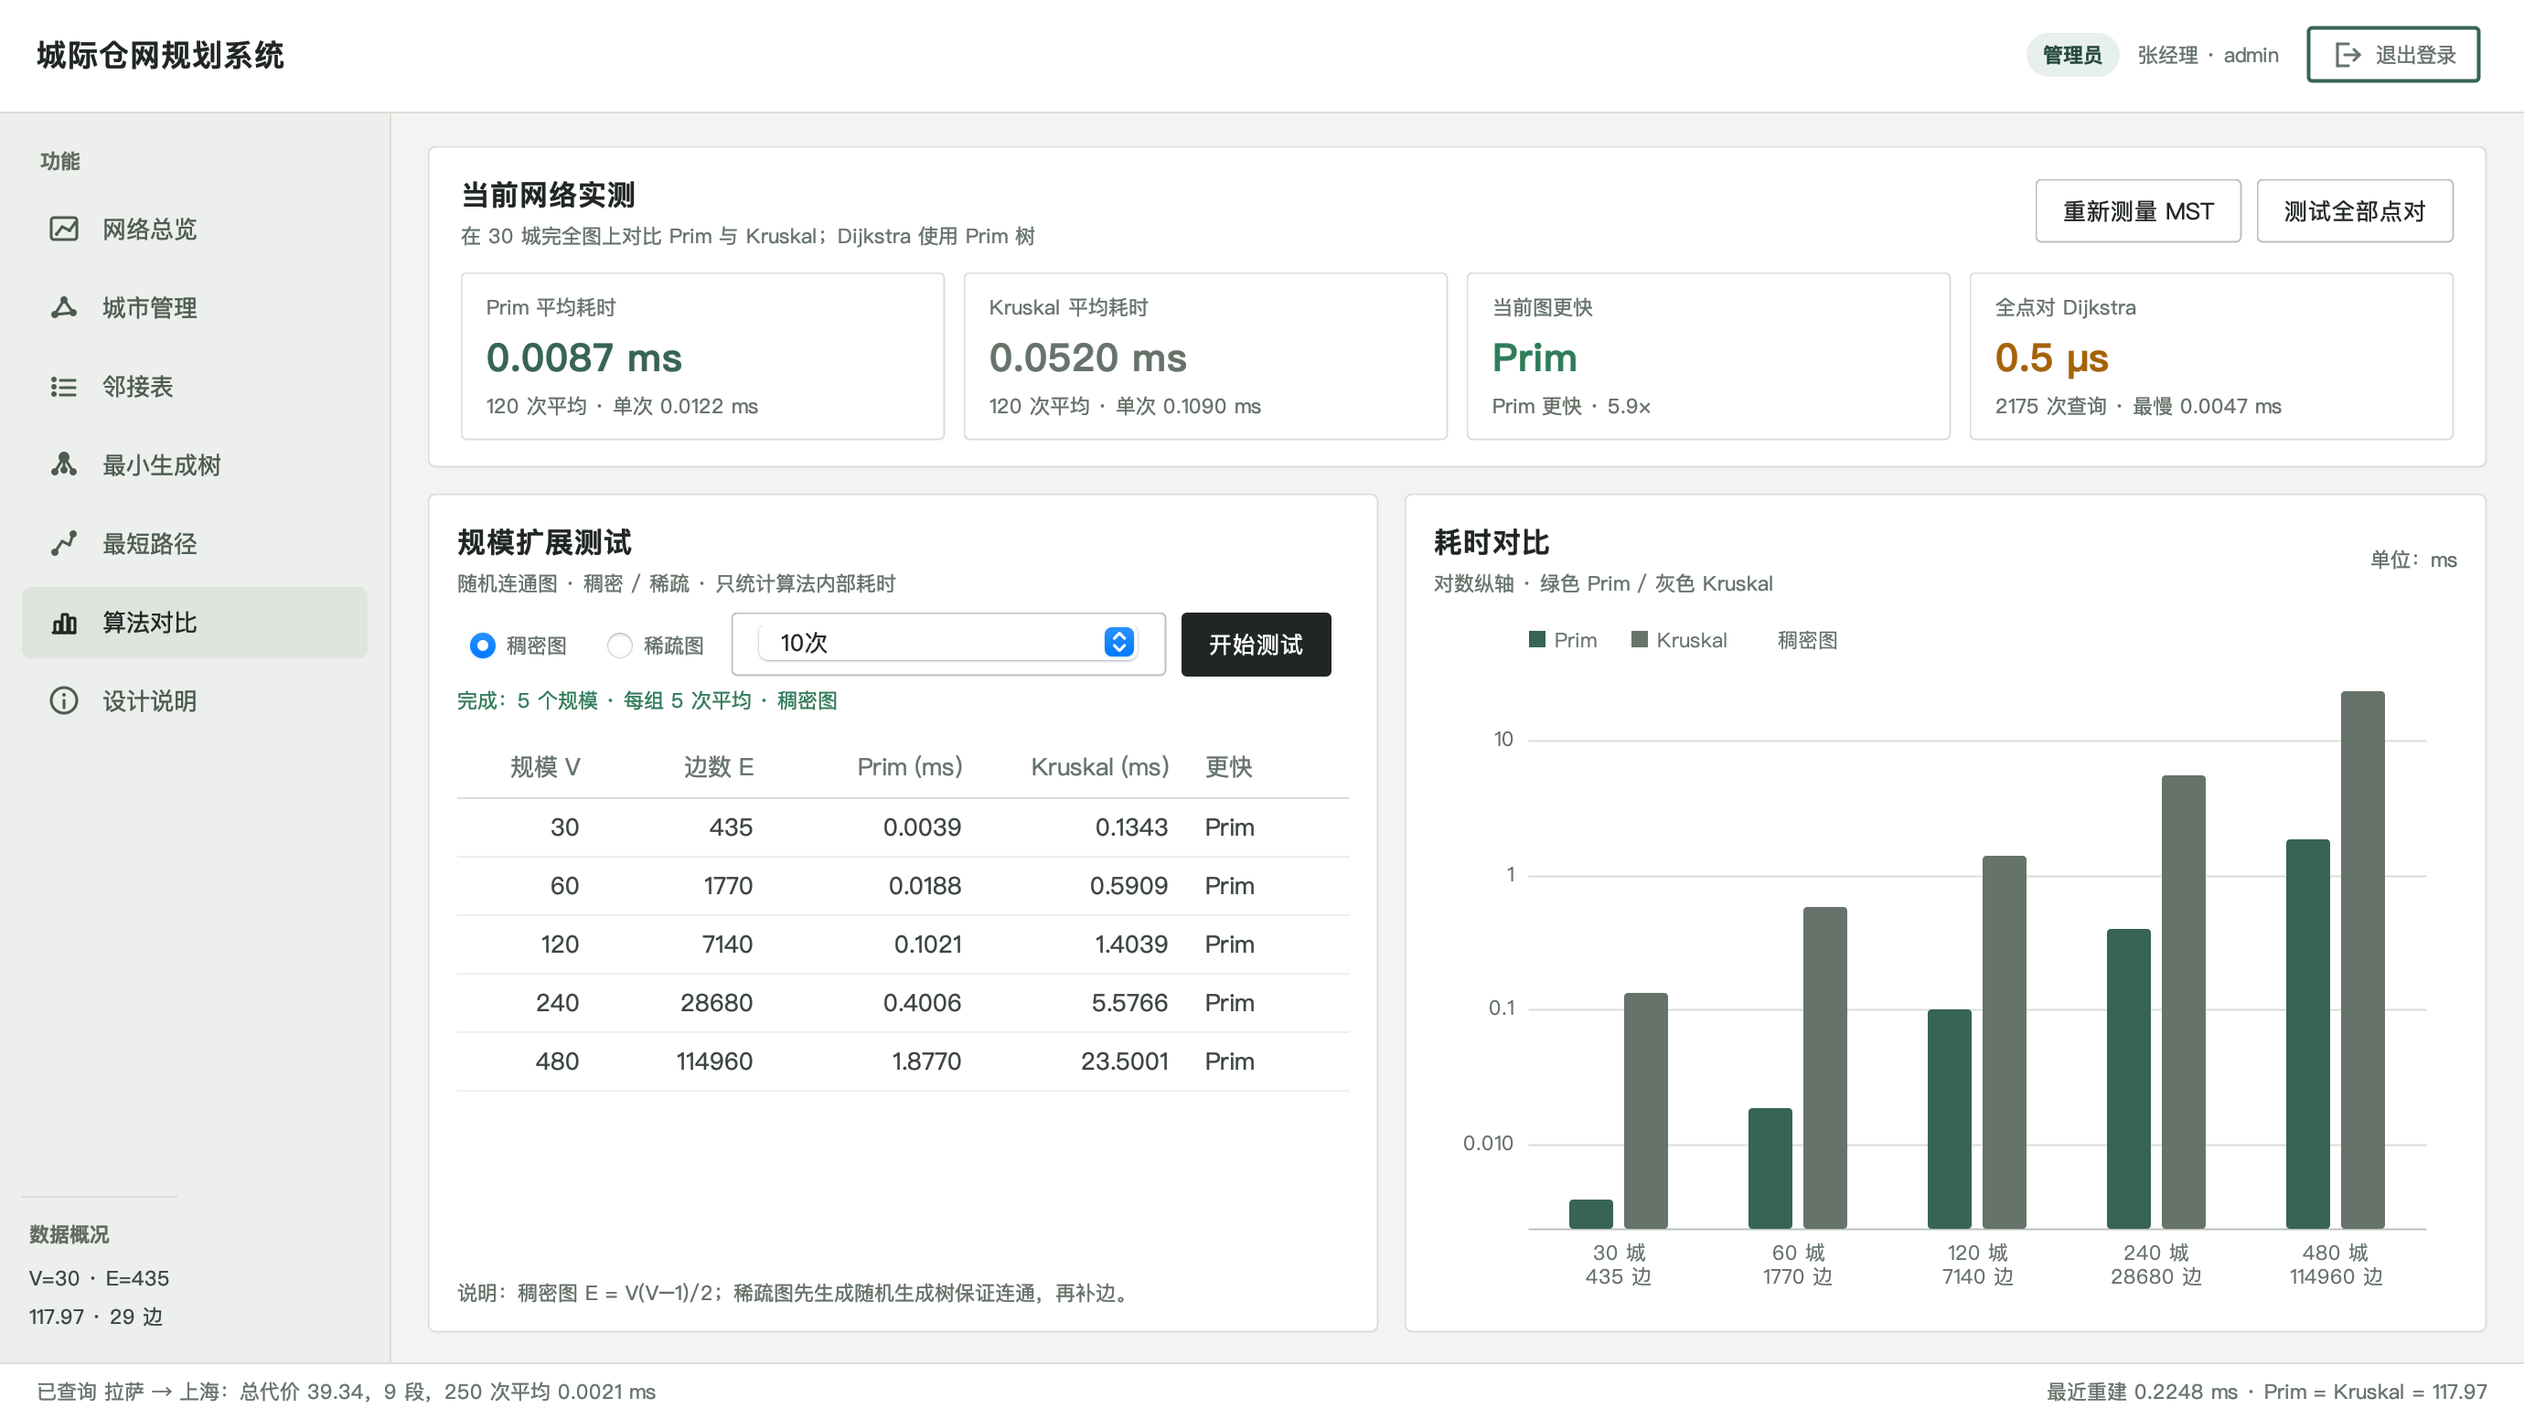
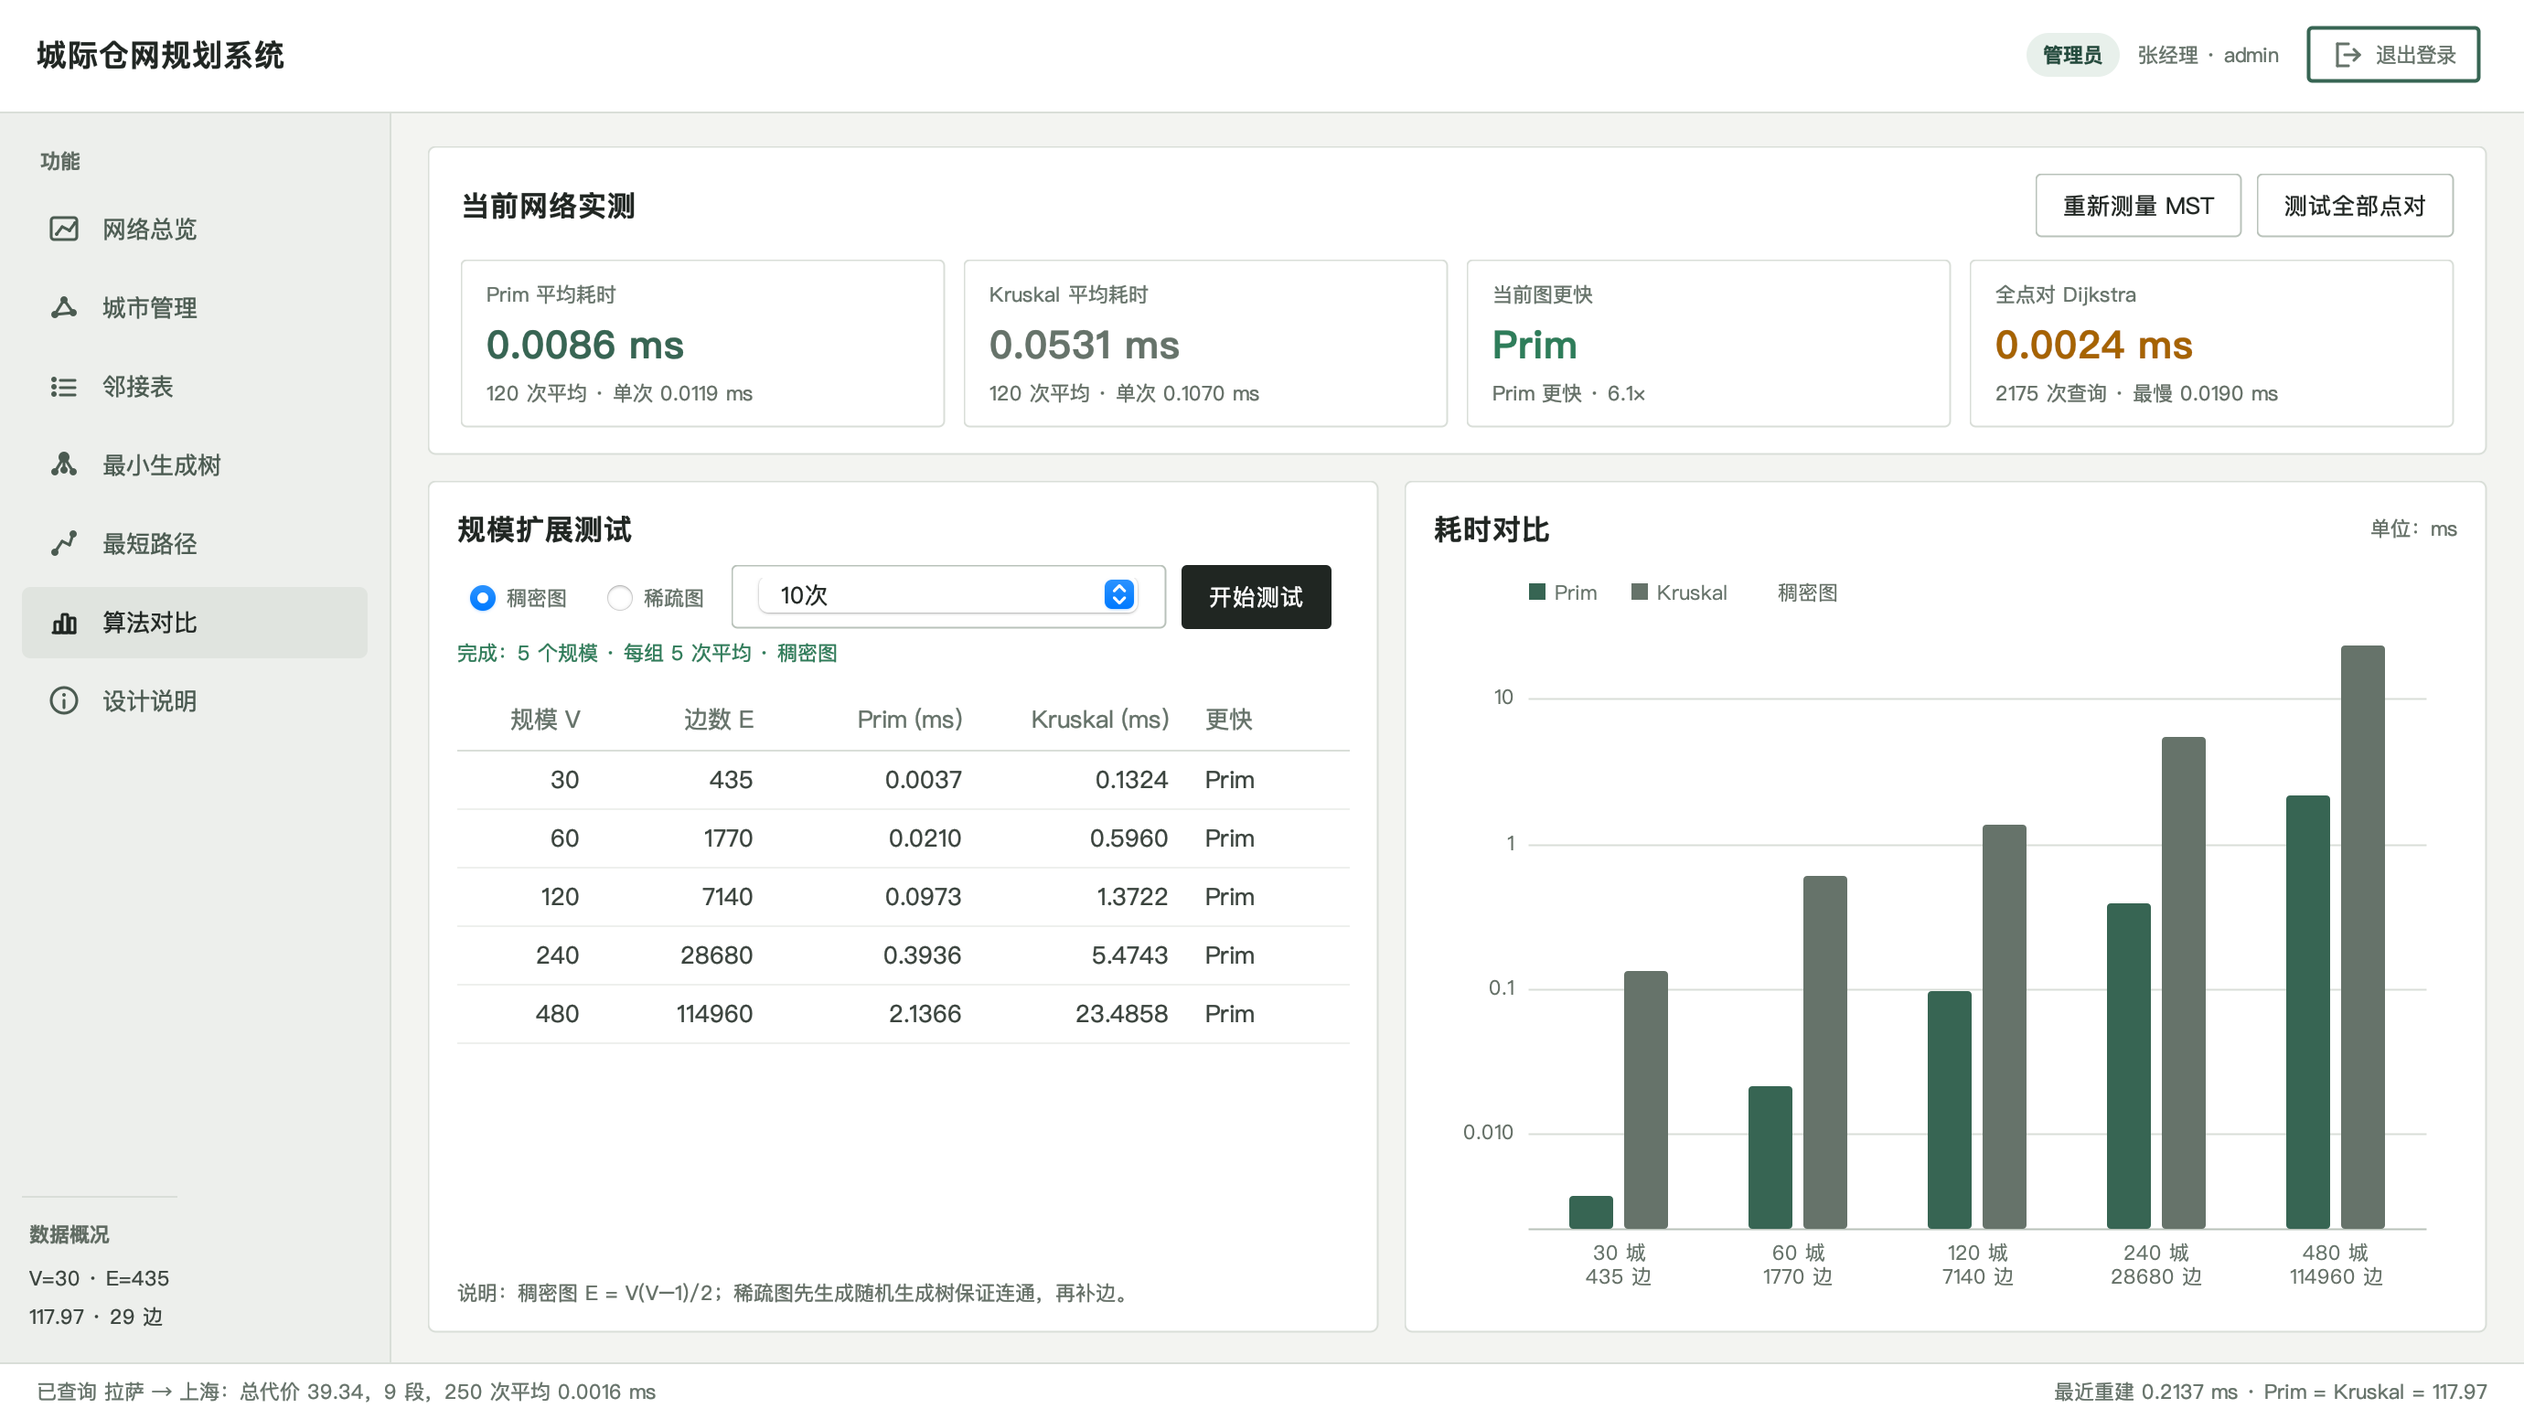
style: remove explanatory heading subtitles

diff --git a/src/logistics/ui/MstPanel.java b/src/logistics/ui/MstPanel.java
@@ -2,7 +2,6 @@ package logistics.ui;
 
 import java.awt.BorderLayout;
 import java.awt.Color;
-import java.awt.Component;
 import java.awt.Dimension;
 import java.awt.Font;
 import java.awt.GridLayout;
@@ -55,10 +54,8 @@ public final class MstPanel extends JPanel {
         add(tiles, BorderLayout.NORTH);
 
         JPanel tables = Ui.transparent(new GridLayout(1, 2, 14, 0));
-        tables.add(buildTableCard("Prim", "从起点出发，每次选距当前树最近的顶点",
-                primTime, primModel, Theme.PRIMARY));
-        tables.add(buildTableCard("Kruskal", "边按权值升序，并查集判环，选够 V-1 条为止",
-                kruskalTime, kruskalModel, Theme.TEXT_SOFT));
+        tables.add(buildTableCard("Prim", primTime, primModel, Theme.PRIMARY));
+        tables.add(buildTableCard("Kruskal", kruskalTime, kruskalModel, Theme.TEXT_SOFT));
         add(tables, BorderLayout.CENTER);
 
         Ui.RoundedPanel note = new Ui.RoundedPanel(new BorderLayout(), new Color(0xF7, 0xF8, 0xF6),
@@ -72,15 +69,13 @@ public final class MstPanel extends JPanel {
         add(note, BorderLayout.SOUTH);
     }
 
-    private JPanel buildTableCard(String algorithm, String description, JLabel timeLabel,
+    private JPanel buildTableCard(String algorithm, JLabel timeLabel,
                                   EdgeTableModel model, Color accent) {
         Ui.RoundedPanel card = Ui.card();
         card.setLayout(new BorderLayout());
         card.setBorder(new EmptyBorder(15, 16, 15, 16));
 
         JPanel header = Ui.transparent(new BorderLayout());
-        JPanel title = Ui.transparent();
-        title.setLayout(new BoxLayout(title, BoxLayout.Y_AXIS));
         JPanel nameRow = Ui.transparent();
         nameRow.setLayout(new BoxLayout(nameRow, BoxLayout.X_AXIS));
         JLabel name = Ui.label(algorithm, 15.5f, Theme.TEXT, Font.BOLD);
@@ -88,13 +83,7 @@ public final class MstPanel extends JPanel {
         nameRow.add(Ui.gap(8, 0));
         nameRow.add(new Ui.BadgeLabel(algorithm.equals("Prim") ? "加顶点" : "加边",
                 accent, new Color(accent.getRed(), accent.getGreen(), accent.getBlue(), 22)));
-        nameRow.setAlignmentX(Component.LEFT_ALIGNMENT);
-        title.add(nameRow);
-        title.add(Ui.gap(0, 3));
-        JLabel desc = Ui.label(description, 10.3f, Theme.MUTED, Font.PLAIN);
-        desc.setAlignmentX(Component.LEFT_ALIGNMENT);
-        title.add(desc);
-        header.add(title, BorderLayout.WEST);
+        header.add(nameRow, BorderLayout.WEST);
         timeLabel.setHorizontalAlignment(JLabel.RIGHT);
         timeLabel.setFont(Theme.mono(11f));
         header.add(timeLabel, BorderLayout.EAST);

diff --git a/src/logistics/ui/CityPanel.java b/src/logistics/ui/CityPanel.java
@@ -62,17 +62,8 @@ public final class CityPanel extends JPanel {
         card.setBorder(new EmptyBorder(13, 18, 13, 18));
         card.setLayout(new BorderLayout());
 
-        JPanel titles = Ui.transparent();
-        titles.setLayout(new BoxLayout(titles, BoxLayout.Y_AXIS));
         JLabel title = Ui.label("城市管理", 17f, Theme.TEXT, Font.BOLD);
-        title.setAlignmentX(Component.LEFT_ALIGNMENT);
-        titles.add(title);
-        titles.add(Ui.gap(0, 3));
-        JLabel sub = Ui.label("修改后重建图与 MST，并保存到 data/cities.txt",
-                10.8f, Theme.MUTED, Font.PLAIN);
-        sub.setAlignmentX(Component.LEFT_ALIGNMENT);
-        titles.add(sub);
-        card.add(titles, BorderLayout.WEST);
+        card.add(title, BorderLayout.WEST);
 
         Ui.PillButton addButton = new Ui.PillButton("＋ 新增城市", Ui.ButtonStyle.PRIMARY);
         editButton = new Ui.PillButton("编辑选中", Ui.ButtonStyle.SECONDARY);
@@ -104,7 +95,7 @@ public final class CityPanel extends JPanel {
         tableCard.setLayout(new BorderLayout());
 
         JPanel header = Ui.transparent(new BorderLayout());
-        header.add(Ui.cardTitle("链表结点", "双击一行可以直接编辑"), BorderLayout.WEST);
+        header.add(Ui.cardTitle("链表结点"), BorderLayout.WEST);
         header.add(countBadge, BorderLayout.EAST);
         tableCard.add(header, BorderLayout.NORTH);
 
@@ -154,7 +145,7 @@ public final class CityPanel extends JPanel {
 
         JPanel top = Ui.transparent();
         top.setLayout(new BoxLayout(top, BoxLayout.Y_AXIS));
-        JPanel titles = Ui.cardTitle("按距离排序", "链表就地插入排序 · 稳定 · O(n²)");
+        JPanel titles = Ui.cardTitle("按距离排序");
         titles.setAlignmentX(Component.LEFT_ALIGNMENT);
         top.add(titles);
         top.add(Ui.gap(0, 12));
@@ -446,11 +437,6 @@ public final class CityPanel extends JPanel {
             title.setFont(Theme.display(Font.BOLD, 21f));
             title.setAlignmentX(Component.LEFT_ALIGNMENT);
             top.add(title);
-            top.add(Ui.gap(0, 5));
-            JLabel sub = Ui.label("保存后立即重建完全图、MST 与最短路径缓存", 10.5f,
-                    Theme.MUTED, Font.PLAIN);
-            sub.setAlignmentX(Component.LEFT_ALIGNMENT);
-            top.add(sub);
             root.add(top, BorderLayout.NORTH);
 
             JPanel form = new JPanel();

diff --git a/src/logistics/ui/BenchmarkPanel.java b/src/logistics/ui/BenchmarkPanel.java
@@ -74,8 +74,7 @@ public final class BenchmarkPanel extends JPanel {
         card.setBorder(new EmptyBorder(15, 18, 15, 18));
 
         JPanel header = Ui.transparent(new BorderLayout());
-        header.add(Ui.cardTitle("当前网络实测",
-                "在 30 城完全图上对比 Prim 与 Kruskal；Dijkstra 使用 Prim 树"), BorderLayout.WEST);
+        header.add(Ui.cardTitle("当前网络实测"), BorderLayout.WEST);
 
         JPanel actions = Ui.transparent();
         actions.setLayout(new BoxLayout(actions, BoxLayout.X_AXIS));
@@ -114,8 +113,7 @@ public final class BenchmarkPanel extends JPanel {
 
         JPanel header = Ui.transparent(new BorderLayout(0, 8));
         JPanel titleRow = Ui.transparent(new BorderLayout());
-        titleRow.add(Ui.cardTitle("规模扩展测试", "随机连通图 · 稠密 / 稀疏 · 只统计算法内部耗时"),
-                BorderLayout.WEST);
+        titleRow.add(Ui.cardTitle("规模扩展测试"), BorderLayout.WEST);
         header.add(titleRow, BorderLayout.NORTH);
 
         JPanel middle = Ui.transparent();
@@ -176,7 +174,7 @@ public final class BenchmarkPanel extends JPanel {
         card.setBorder(new EmptyBorder(15, 16, 15, 16));
 
         JPanel header = Ui.transparent(new BorderLayout());
-        header.add(Ui.cardTitle("耗时对比", "对数纵轴 · 绿色 Prim / 灰色 Kruskal"), BorderLayout.WEST);
+        header.add(Ui.cardTitle("耗时对比"), BorderLayout.WEST);
         JLabel hint = Ui.label("单位：ms", 9.8f, Theme.FAINT, Font.PLAIN);
         header.add(hint, BorderLayout.EAST);
         card.add(header, BorderLayout.NORTH);

diff --git a/src/logistics/ui/OverviewPanel.java b/src/logistics/ui/OverviewPanel.java
@@ -51,7 +51,7 @@ public final class OverviewPanel extends JPanel {
         JPanel mapCard = Ui.card();
         mapCard.setBorder(new EmptyBorder(16, 16, 14, 16));
         JPanel header = Ui.transparent(new BorderLayout());
-        header.add(Ui.cardTitle("城市网络拓扑", "城市按经纬度投影，实线表示最小生成树"), BorderLayout.WEST);
+        header.add(Ui.cardTitle("城市网络拓扑"), BorderLayout.WEST);
 
         JPanel controls = Ui.transparent();
         controls.setLayout(new BoxLayout(controls, BoxLayout.X_AXIS));
@@ -141,7 +141,7 @@ public final class OverviewPanel extends JPanel {
         card.setMaximumSize(new Dimension(Integer.MAX_VALUE, 300));
 
         JPanel title = Ui.transparent(new BorderLayout());
-        title.add(Ui.cardTitle("网络概况", "随城市数据自动更新"), BorderLayout.WEST);
+        title.add(Ui.cardTitle("网络概况"), BorderLayout.WEST);
         title.setAlignmentX(Component.LEFT_ALIGNMENT);
         card.add(title);
         card.add(Ui.gap(0, 13));
@@ -167,7 +167,7 @@ public final class OverviewPanel extends JPanel {
         card.setAlignmentX(Component.LEFT_ALIGNMENT);
         card.setMaximumSize(new Dimension(Integer.MAX_VALUE, 210));
 
-        JPanel title = Ui.cardTitle("城市详情", "点击地图上的节点");
+        JPanel title = Ui.cardTitle("城市详情");
         title.setAlignmentX(Component.LEFT_ALIGNMENT);
         card.add(title);
         card.add(Ui.gap(0, 12));

diff --git a/src/logistics/ui/PathPanel.java b/src/logistics/ui/PathPanel.java
@@ -69,8 +69,7 @@ public final class PathPanel extends JPanel {
         card.setBorder(new EmptyBorder(14, 18, 14, 18));
 
         JPanel header = Ui.transparent(new BorderLayout());
-        header.add(Ui.cardTitle("任意两仓最短路径", "Dijkstra · 显示路径、分段权值和耗时"),
-                BorderLayout.WEST);
+        header.add(Ui.cardTitle("任意两仓最短路径"), BorderLayout.WEST);
         header.add(pickHint, BorderLayout.EAST);
         card.add(header, BorderLayout.NORTH);
 
@@ -237,7 +236,7 @@ public final class PathPanel extends JPanel {
         card.setBorder(new EmptyBorder(16, 16, 14, 16));
 
         JPanel header = Ui.transparent(new BorderLayout());
-        header.add(Ui.cardTitle("路径可视化", "橙色为查询路径，绿色为 MST 光纤"), BorderLayout.WEST);
+        header.add(Ui.cardTitle("路径可视化"), BorderLayout.WEST);
         mapHeader.setHorizontalAlignment(JLabel.RIGHT);
         header.add(mapHeader, BorderLayout.EAST);
         card.add(header, BorderLayout.NORTH);

diff --git a/src/logistics/ui/Ui.java b/src/logistics/ui/Ui.java
@@ -70,19 +70,9 @@ public final class Ui {
         return label;
     }
 
-    /** 卡片标题 + 副标题。 */
-    public static JPanel cardTitle(String title, String subtitle) {
-        JPanel panel = transparent();
-        panel.setLayout(new BoxLayout(panel, BoxLayout.Y_AXIS));
-        JLabel titleLabel = label(title, 15.5f, Theme.TEXT, Font.BOLD);
-        titleLabel.setAlignmentX(Component.LEFT_ALIGNMENT);
-        panel.add(titleLabel);
-        if (subtitle != null && !subtitle.isBlank()) {
-            panel.add(gap(0, 3));
-            JLabel sub = label(subtitle, 11f, Theme.MUTED, Font.PLAIN);
-            sub.setAlignmentX(Component.LEFT_ALIGNMENT);
-            panel.add(sub);
-        }
+    public static JPanel cardTitle(String title) {
+        JPanel panel = transparent(new BorderLayout(0, 0));
+        panel.add(label(title, 15.5f, Theme.TEXT, Font.BOLD), BorderLayout.WEST);
         return panel;
     }
 

diff --git a/src/logistics/ui/LoginFrame.java b/src/logistics/ui/LoginFrame.java
@@ -57,12 +57,7 @@ public final class LoginFrame extends JFrame {
         JLabel heading = Ui.label("城际仓网规划系统", 24f, Theme.TEXT, Font.BOLD);
         heading.setAlignmentX(Component.LEFT_ALIGNMENT);
         form.add(heading);
-        form.add(Ui.gap(0, 6));
-        JLabel subtitle = Ui.label("数据结构课程设计", 11.5f, Theme.MUTED, Font.PLAIN);
-        subtitle.setAlignmentX(Component.LEFT_ALIGNMENT);
-        form.add(subtitle);
-
-        form.add(Ui.gap(0, 30));
+        form.add(Ui.gap(0, 38));
         JLabel accountLabel = Ui.label("账号", 11f, Theme.TEXT_SOFT, Font.BOLD);
         accountLabel.setAlignmentX(Component.LEFT_ALIGNMENT);
         form.add(accountLabel);

diff --git a/src/logistics/ui/AdjacencyPanel.java b/src/logistics/ui/AdjacencyPanel.java
@@ -30,7 +30,7 @@ public final class AdjacencyPanel extends JPanel {
         card.setBorder(new EmptyBorder(16, 18, 16, 18));
 
         JPanel header = Ui.transparent(new BorderLayout());
-        JPanel titlePanel = Ui.cardTitle("邻接表存储结构", "顶点数组与边结点链表，每条无向边存两次");
+        JPanel titlePanel = Ui.cardTitle("邻接表存储结构");
         header.add(titlePanel, BorderLayout.WEST);
 
         JPanel actions = Ui.transparent();

diff --git a/src/logistics/ui/AboutPanel.java b/src/logistics/ui/AboutPanel.java
@@ -49,7 +49,6 @@ public final class AboutPanel extends JPanel {
             </style></head><body>
 
             <h1>设计说明</h1>
-            <p class="muted">城际仓网规划系统 · 数据结构课程设计</p>
 
             <h2>一、场景与目标</h2>
             <p>某物流公司在 30 个城市之间铺设光纤专线：在保证全网连通的前提下让总成本最低，
